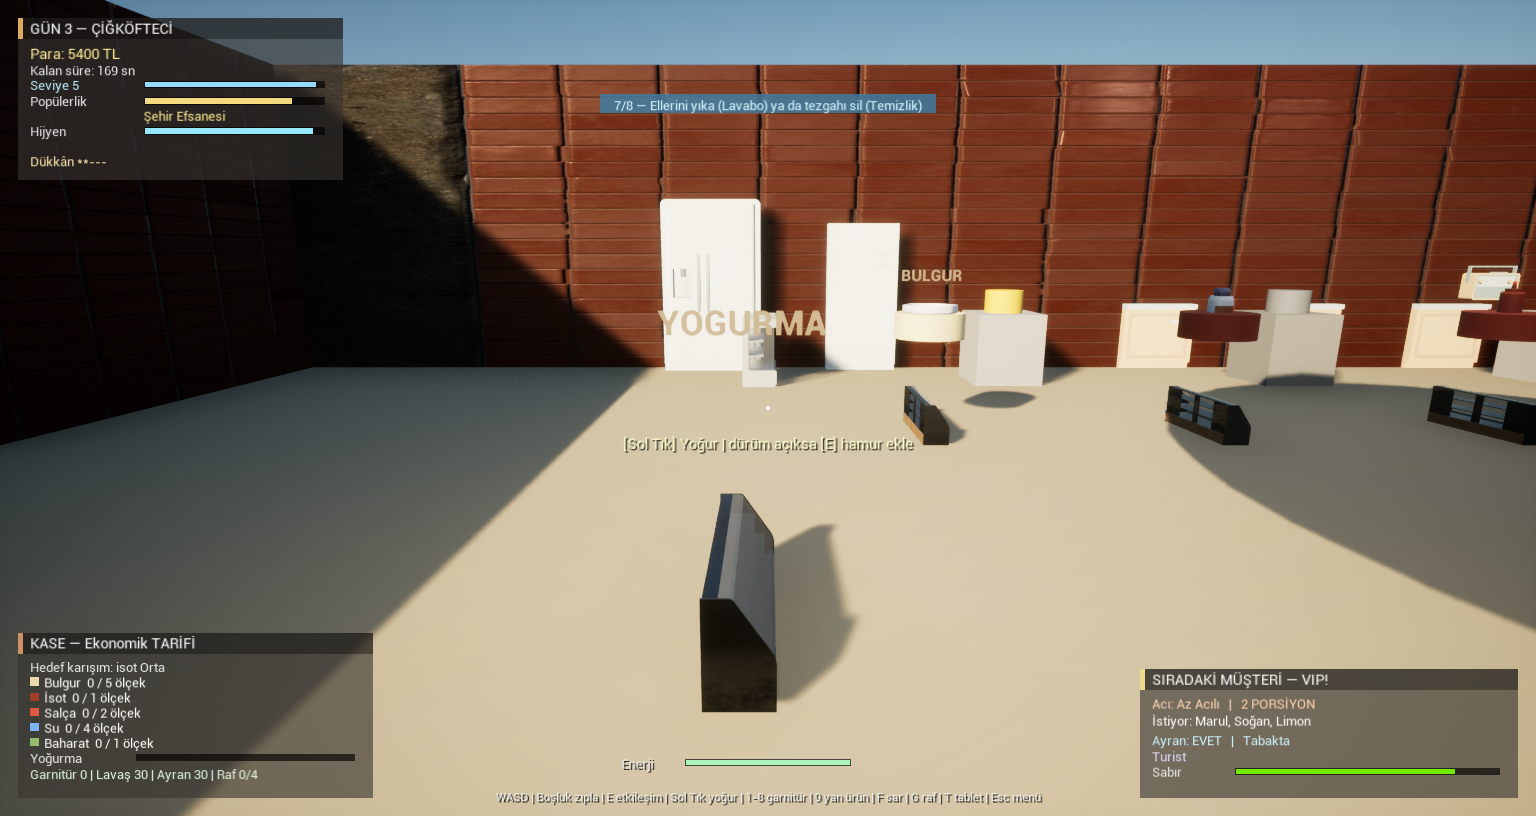
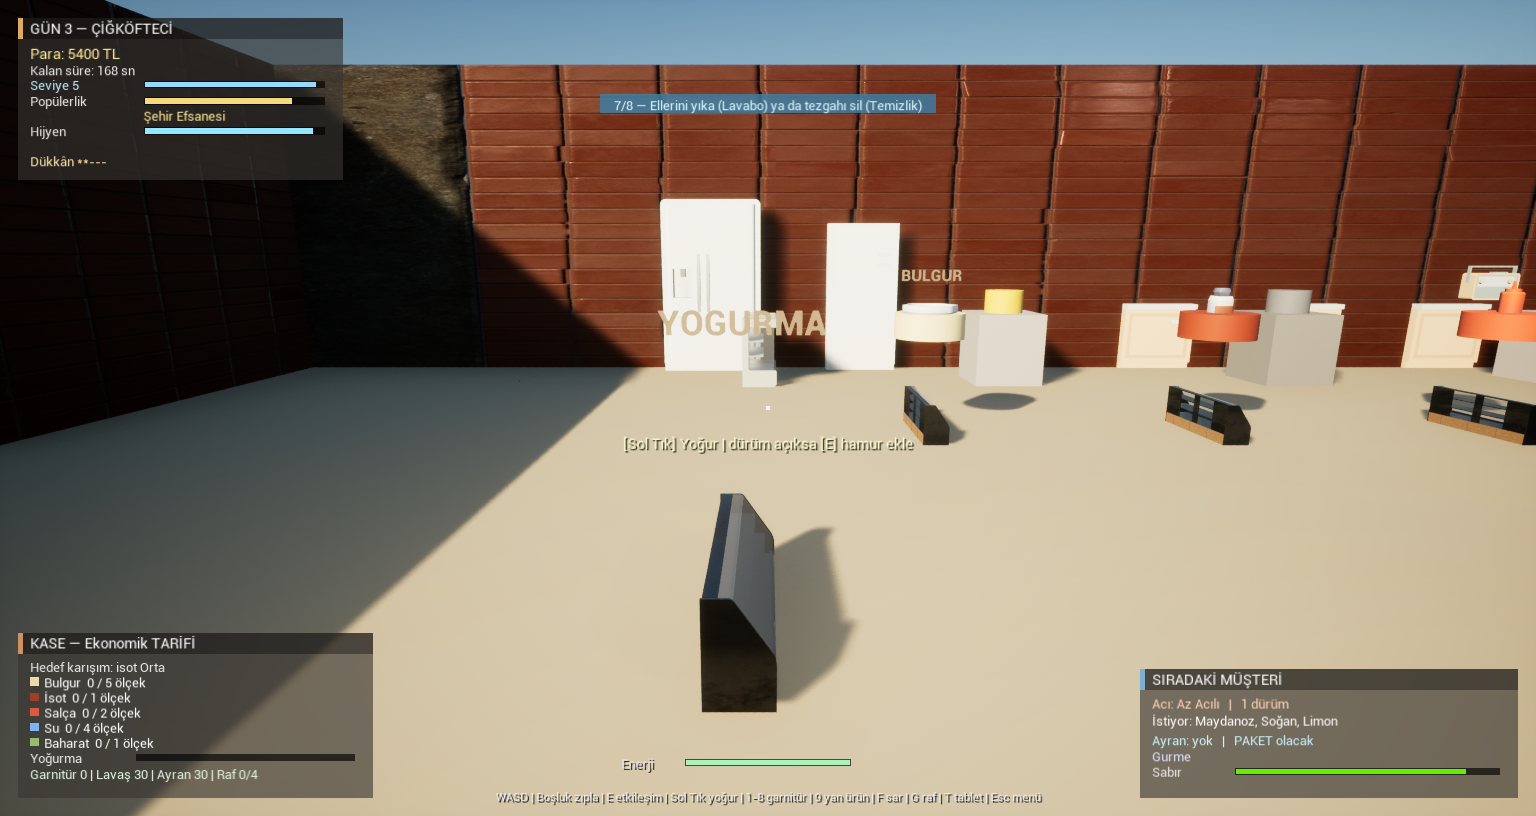
docs: the kitchen leads the README, and the counter shot is a defect not a crop
Two attempts at reframing the service shot were thrown away, and what they found
is worth more than the picture would have been: the service counter does not
read from the shop floor at any pitch. ECigStation::Servis spawns at (-600, 0)
and its label draws there, but there is no counter to photograph. It is the one
station a customer interacts with, and the player stands behind it and never sees
it face on, which is why nobody had noticed. Recorded in KNOWN_LIMITATIONS.md;
the establishing shot goes back to the framing it had.

So the ingredient counters lead instead. That frame carries the recipe panel, the
next customer's order and five stations with their names on, which is closer to
what the game is than a view of the road.

Its camera moved ninety units off the centre line. Standing at y=0 put SALCA at
(600,0) and the locked IsotPlus at (870,0) in exact line, so the back station's
"SEVIYE 6" printed across the front one's name - the last surviving case of the
label overlap, and one the distance rule cannot reach because both are within
range. A counter seen slightly off-axis is also the better photograph.

One idle step added before the service shot: the customers spawned the step
before were still crossing the street when it fired, so the picture had an empty
foreground and three people in the distance.

diff --git a/Source/CigkofteSimulator/Debug/CigCheatManager.cpp b/Source/CigkofteSimulator/Debug/CigCheatManager.cpp
@@ -695,53 +695,74 @@ void UCigCheatManager::ShotStep()
 		}
 		break;
 
-	case 2: // service counter and street
+	case 2: // nothing: one step of walking time
+		// The customers spawned last step start out on the street. At the old
+		// spacing the service shot was taken while they were still crossing it,
+		// so the picture at the top of the README had an empty counter and three
+		// people in the middle distance. An idle step is the cheapest fix.
+		break;
+
+	case 3: // the shop front: seating, awning, the queue and the street
+		// Two attempts at reframing this as a counter shot were abandoned, and
+		// the reason is worth writing down: the service counter at (-600, 0)
+		// does not read from the shop floor at any pitch. Its station spawns and
+		// its label draws, but there is no counter to photograph - which is a
+		// defect in the world, not in the framing, and is recorded in
+		// KNOWN_LIMITATIONS.md rather than papered over with a camera angle.
+		//
+		// So this stays the establishing shot it always was, and the kitchen
+		// leads the README instead.
 		Place(FVector(120.f, 0.f, 110.f), 180.f, -7.f);
 		break;
 
-	case 3:
+	case 4:
 		Shot(TEXT("01_servis"));
 		break;
 
-	case 4: // ingredient stations
-		Place(FVector(300.f, 0.f, 110.f), 0.f, -14.f);
+	case 5: // ingredient stations - the shot that leads the README
+		// Off the centre line on purpose. Standing at y=0 puts SALCA at (600,0)
+		// and the locked IsotPlus at (870,0) in exact line, so the back one's
+		// "SEVIYE 6" printed across the front one's name. Ninety units to the
+		// side separates them, and a counter seen slightly off-axis is a better
+		// photograph than one seen dead on.
+		Place(FVector(300.f, 90.f, 110.f), -6.f, -14.f);
 		break;
 
-	case 5:
+	case 6:
 		Shot(TEXT("02_mutfak"));
 		break;
 
-	case 6: // kneading station
+	case 7: // kneading station
 		Place(FVector(-30.f, -640.f, 110.f), 0.f, -12.f);
 		break;
 
-	case 7:
+	case 8:
 		Shot(TEXT("03_yogurma"));
 		break;
 
-	case 8: // tablet: shop upgrades
+	case 9: // tablet: shop upgrades
 		Mode->bTabletOpen = true;
 		Mode->TabletTab = ECigTabletTab::Dukkan;
 		break;
 
-	case 9:
+	case 10:
 		Shot(TEXT("04_tablet_dukkan"));
 		break;
 
-	case 10:
+	case 11:
 		Mode->TabletTab = ECigTabletTab::Gorevler;
 		break;
 
-	case 11:
+	case 12:
 		Shot(TEXT("05_tablet_gorevler"));
 		break;
 
-	case 12:
+	case 13:
 		Mode->bTabletOpen = false;
 		Place(FVector(-100.f, 700.f, 110.f), 135.f, -10.f);
 		break;
 
-	case 13:
+	case 14:
 		Shot(TEXT("06_salon"));
 		break;
 

diff --git a/README.md b/README.md
@@ -20,12 +20,15 @@ simulator written **entirely in C++** on Unreal Engine 5.8.
 `Scripts/Record-Demo.ps1`, which produces the same clip every time rather than
 whatever the person holding the mouse managed on the day.*
 
-![Service counter and the customer queue](docs/screenshots/01_servis.png)
+![The ingredient stations, with the next customer's order on the right](docs/screenshots/02_mutfak.png)
+
+*Bulgur, isot, tomato paste, water, spice — each measured separately, against the
+order on the right and the recipe on the left.*
 
 | | |
 | --- | --- |
-| ![Ingredient stations](docs/screenshots/02_mutfak.png) | ![The kneading counter](docs/screenshots/03_yogurma.png) |
-| *Bulgur, isot, tomato paste, water, spice — each station measured separately* | *Kneading: hold the rhythm with the left mouse button* |
+| ![The shop front and the street](docs/screenshots/01_servis.png) | ![The kneading counter](docs/screenshots/03_yogurma.png) |
+| *The shop front, the awning and the queue coming off the street* | *Kneading: hold the rhythm with the left mouse button* |
 | ![Tablet — shop upgrades](docs/screenshots/04_tablet_dukkan.png) | ![Tablet — quests](docs/screenshots/05_tablet_gorevler.png) |
 | *Shop upgrades* | *Daily quests, story goals, regulars* |
 | ![The seating area](docs/screenshots/06_salon.png) | |

diff --git a/README.tr.md b/README.tr.md
@@ -14,12 +14,15 @@ sabrı taşmadan yetiştir; kazandığın parayla dükkânı büyüt. Unreal Eng
 ile kaydedildi; o gün fareyi kimin tuttuğuna göre değil, her seferinde aynı klibi
 üretir.*
 
-![Servis bankosu ve müşteri kuyruğu](docs/screenshots/01_servis.png)
+![Malzeme tezgâhları ve sağda sıradaki müşterinin siparişi](docs/screenshots/02_mutfak.png)
+
+*Bulgur, isot, salça, su, baharat — her biri ayrı ölçülür; sağda sipariş, solda
+tarif.*
 
 | | |
 | --- | --- |
-| ![Malzeme tezgâhları](docs/screenshots/02_mutfak.png) | ![Yoğurma tezgâhı](docs/screenshots/03_yogurma.png) |
-| *Bulgur, isot, salça, su, baharat — her tezgâh ayrı ölçek* | *Yoğurma: sol tıkla harcı hazırla* |
+| ![Dükkân cephesi ve cadde](docs/screenshots/01_servis.png) | ![Yoğurma tezgâhı](docs/screenshots/03_yogurma.png) |
+| *Dükkân cephesi, tente ve caddeden gelen kuyruk* | *Yoğurma: sol tıkla harcı hazırla* |
 | ![Tablet — dükkân geliştirmeleri](docs/screenshots/04_tablet_dukkan.png) | ![Tablet — görevler](docs/screenshots/05_tablet_gorevler.png) |
 | *Dükkân geliştirmeleri* | *Günlük görevler, hikâye hedefleri, müdavimler* |
 | ![Oturma alanı](docs/screenshots/06_salon.png) | |

diff --git a/docs/CommercialDemo/KNOWN_LIMITATIONS.md b/docs/CommercialDemo/KNOWN_LIMITATIONS.md
@@ -5,6 +5,15 @@ not fixed yet belong in `PLAN.md`, not here.
 
 ## Visual
 
+- **The service counter does not read.** `ECigStation::Servis` spawns at
+  (-600, 0) and its label draws there, but standing on the shop floor and looking
+  at it shows an empty front — no counter to serve across, at any camera pitch.
+  Found trying to compose a screenshot around it, which is the only reason
+  anybody looked: the player stands behind it and never sees it face on. It is
+  the one station the customer interacts with, so it is the one that should read
+  best. Not fixed here, because it needs the mesh and placement worked out rather
+  than a value nudged.
+
 - **Signage pops in and out at 700uu.** Fixed the overlap it replaced — the far
   counter row's names no longer project across the near row in wide shots — but
   the boundary is a hard visibility switch, not a fade. `UTextRenderComponent`
